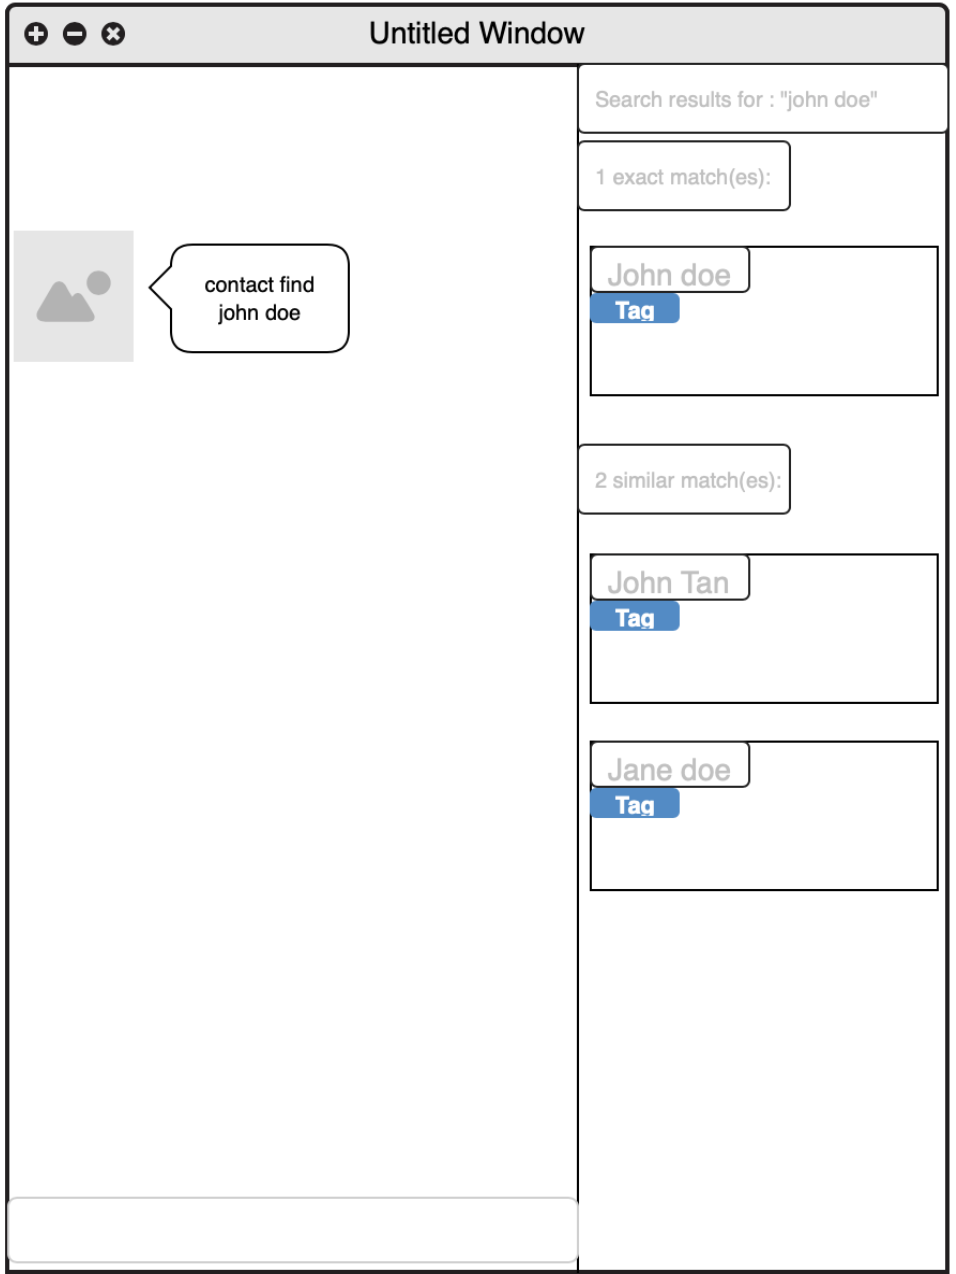
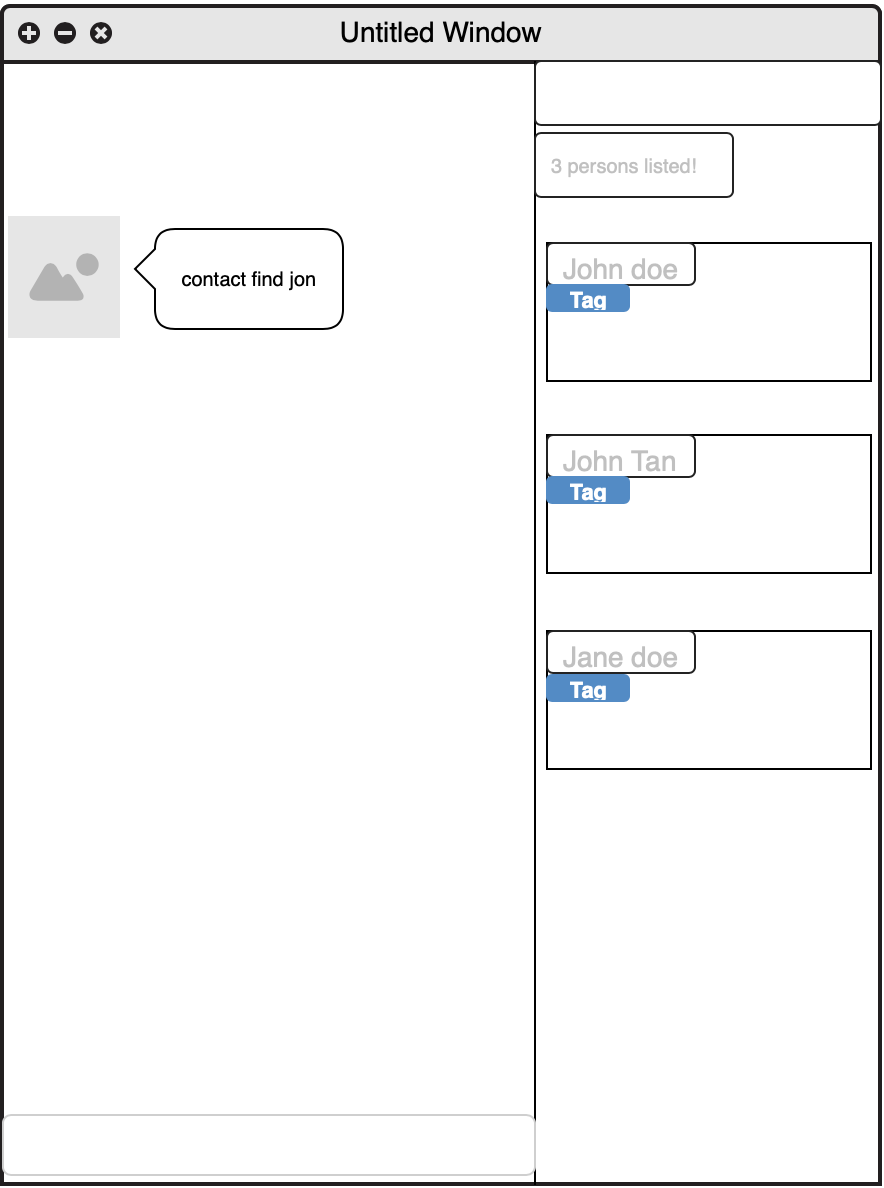
Edit UG and mock up

Changed region(s): [[0.0, 0.0, 1.0, 1.0], [0.1527, 0.1869, 0.3971, 0.2803]]

diff --git a/docs/UserGuide.md b/docs/UserGuide.md
@@ -97,7 +97,7 @@ Shows a list of all contacts in StonksBook.
 Format:`contact list`
 
 #### Locating contacts by name: `contact find`
-Finds contacts whose names contain any of the given keywords.
+Find contacts whose names exactly match or is similar to any of the given keywords.
 
 Format: `contact find KEYWORD [MORE_KEYWORDS]`
 
@@ -109,27 +109,19 @@ Format: `contact find KEYWORD [MORE_KEYWORDS]`
 
 * Contacts matching at least one keyword will be returned (i.e. OR search). e.g. Hans Bo will return Hans Gruber, Bo Yang
 
-* There are two search result categories: exact matches and similar matches.
+* keyword does not have to be exactly matching a contact name. e.g. alx will return Alex Yeoh
 
-* For exact matches:
+* The contact list is sorted by non-ascending similarity. 
 
-    * Only full words will be matched e.g. Han will not match Hans
-
-* For similar matches:
-
-    * Partial words will be matched e.g.  Han will match Hans
+* Exact matches (if exists) will appear as the first few results.
 
 <img src="images/contactFindMockup.png" alt="result for 'contact find keyword'" width="400px">
-
-* Format: `contact find REGEX`
-
-* Returns results that satisfies the regular expression under exact matches.
-
-<img src="images/contactFindRegexMockup.png" alt="result for 'contact find regex'" width="400px">
 
 Examples:
 * `contact find John` returns john and John Doe
 * `contact find alex david` returns Alex Yeoh, David Li
+* `contact find alx` returns Alex Yeoh
+* `contact find alx dvd` returns Alex Yeoh, David Li
 
 #### Deleting a contact: `contact delete`
 Deletes the specified contact from StonksBook.
@@ -380,7 +372,7 @@ Action | Format, Examples
 **Contact Add** | `add n/NAME p/PHONE_NUMBER e/EMAIL a/ADDRESS [t/TAG]…[r/REMARK]…` <br> e.g., `add n/James Ho p/22224444 e/jamesho@example.com a/123, Clementi Rd, 1234665 t/friend t/colleague r/birthday: 20 August`
 **Contact Delete** | `contact delete INDEX` <br> e.g., `contact delete 3`
 **Contact Edit** | `contact edit INDEX [n/NAME] [p/PHONE_NUMBER] [e/EMAIL] [a/ADDRESS] [t/TAG]…[r/REMARK]…` <br> e.g., `edit 2 n/James Lee e/jameslee@example.com`
-**Contact Find** | `contact find KEYWORD [MORE_KEYWORDS]` or `contact find REGEX` <br> e.g., `find James Jake`, `find [^abc]`
+**Contact Find** | `contact find KEYWORD [MORE_KEYWORDS]` <br> e.g., `find James Jake`
 **Contact List** | `contact list`
 **Sale Add** | `sales add c/CONTACT_INDEX n/ITEM_NAME p/UNIT_PRICE q/QUANTITY` <br> e.g., `sale add c/4 n/Notebook p/6.00 q/2`
 **Sale List** | `sale list`
